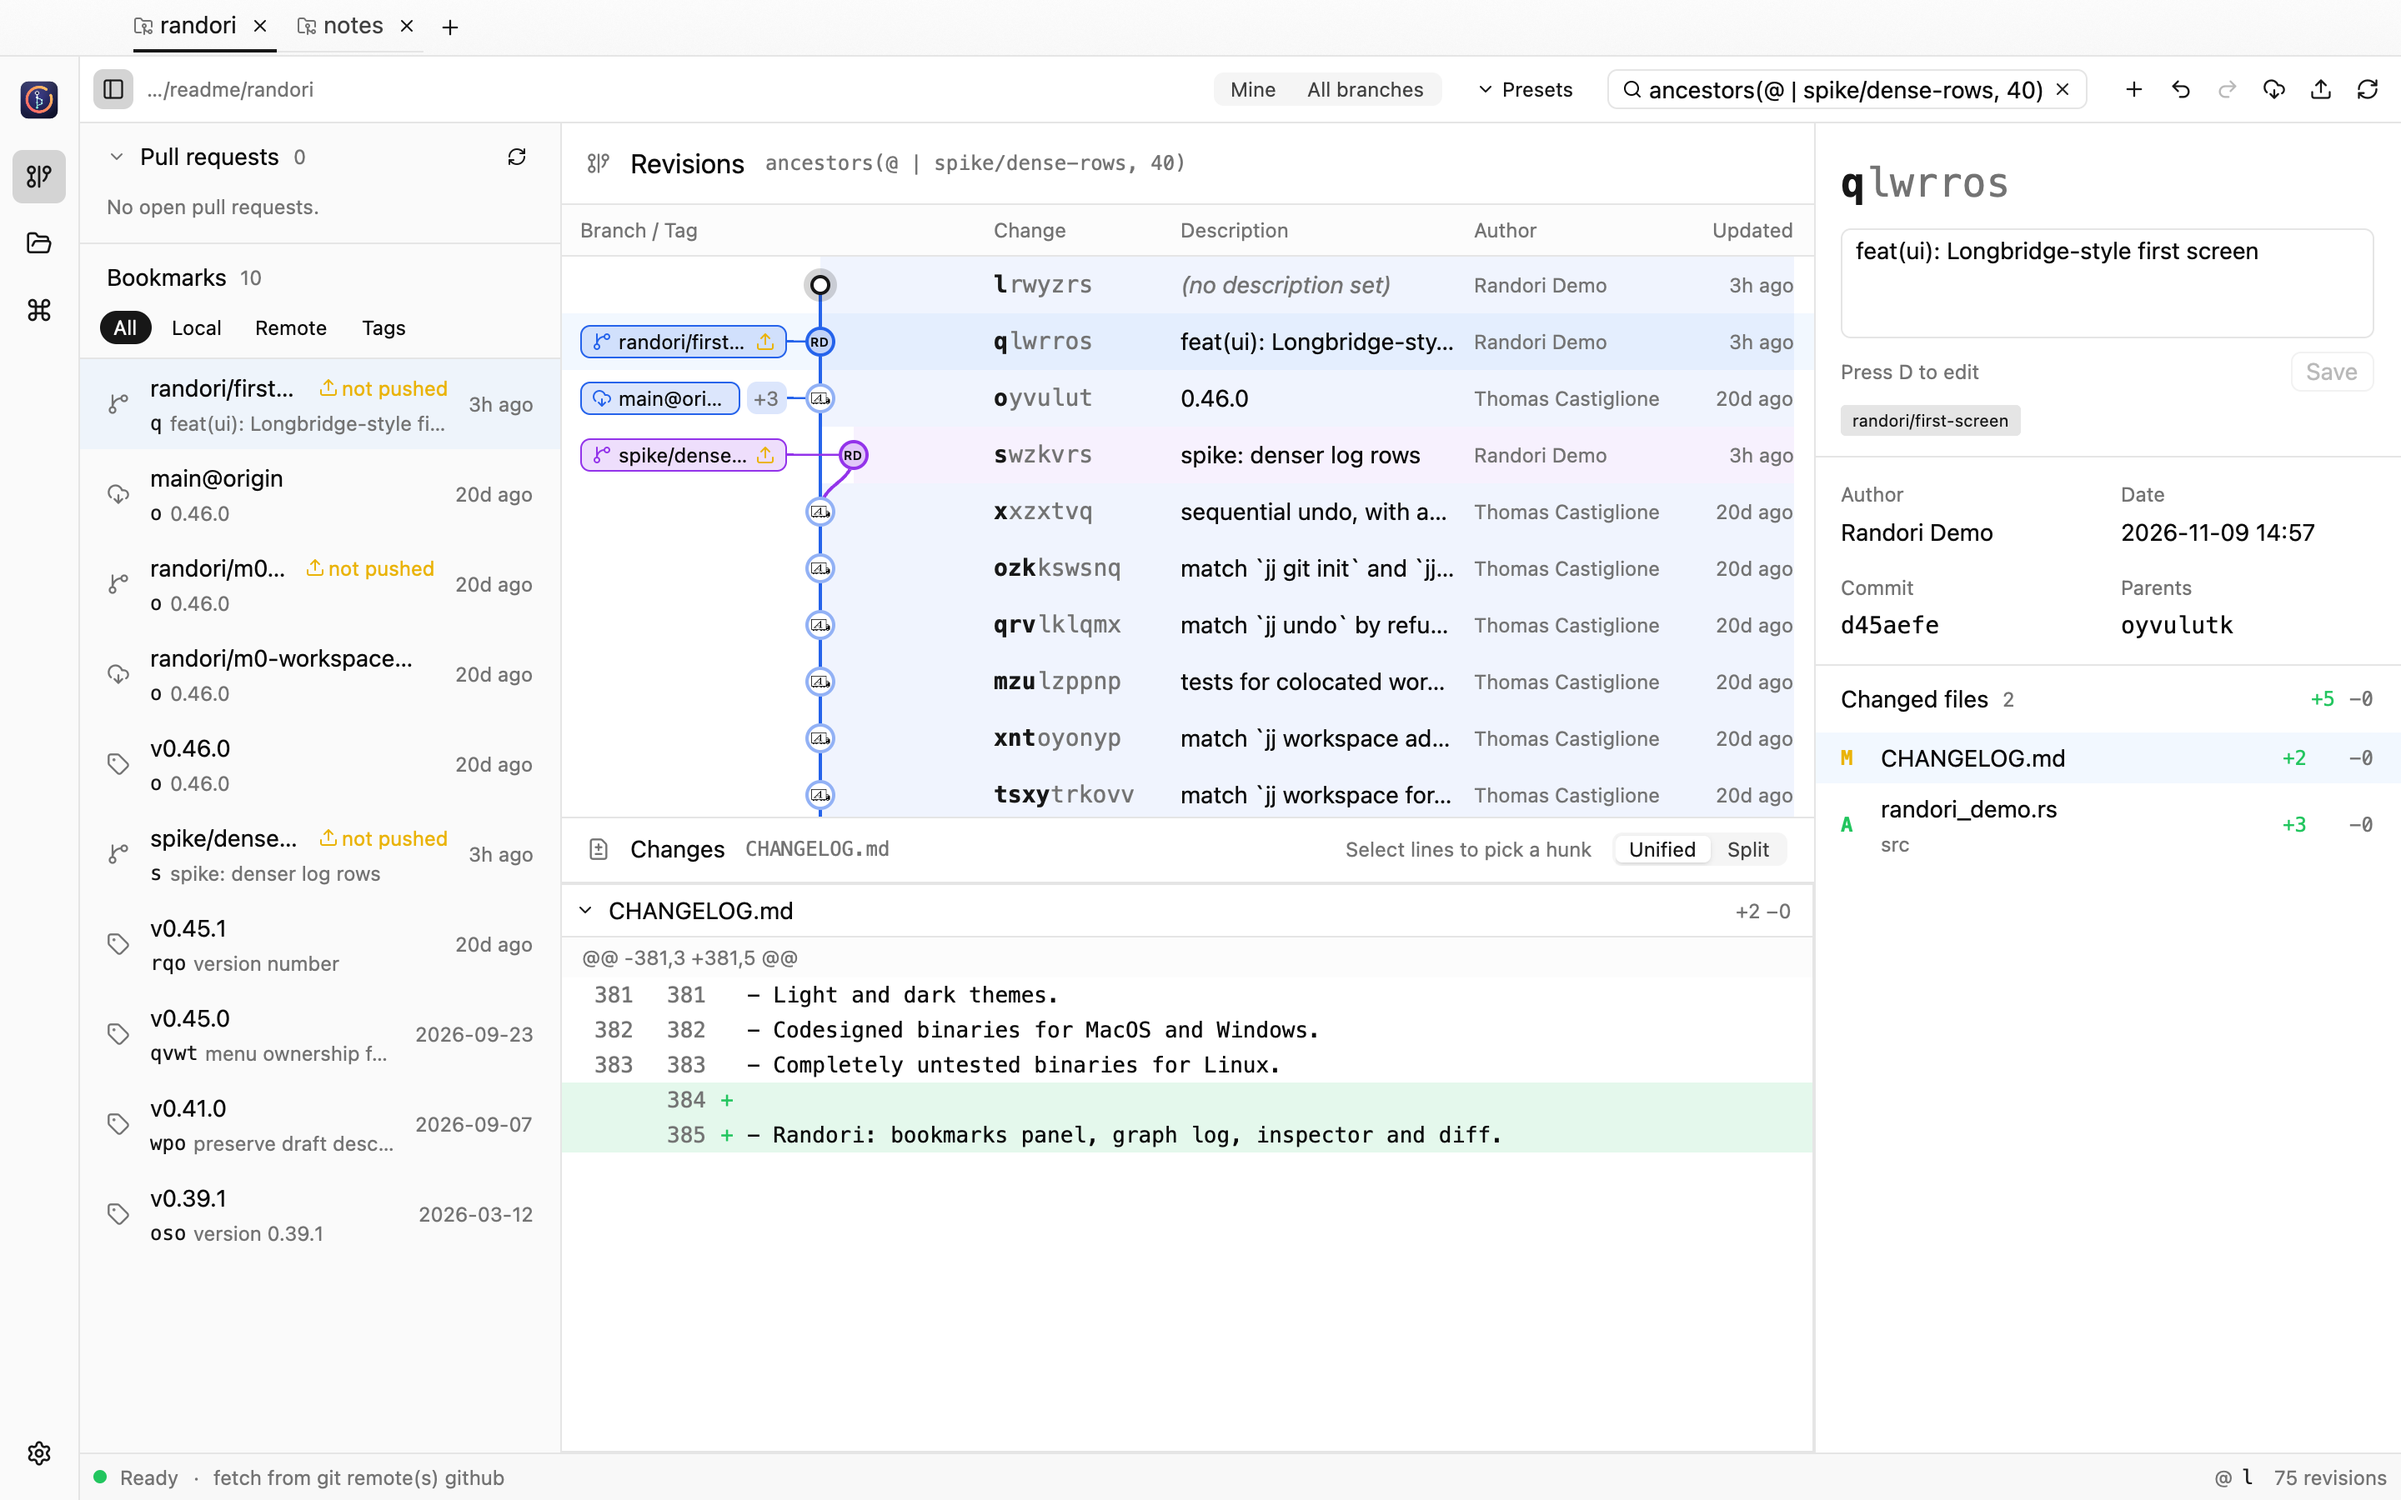
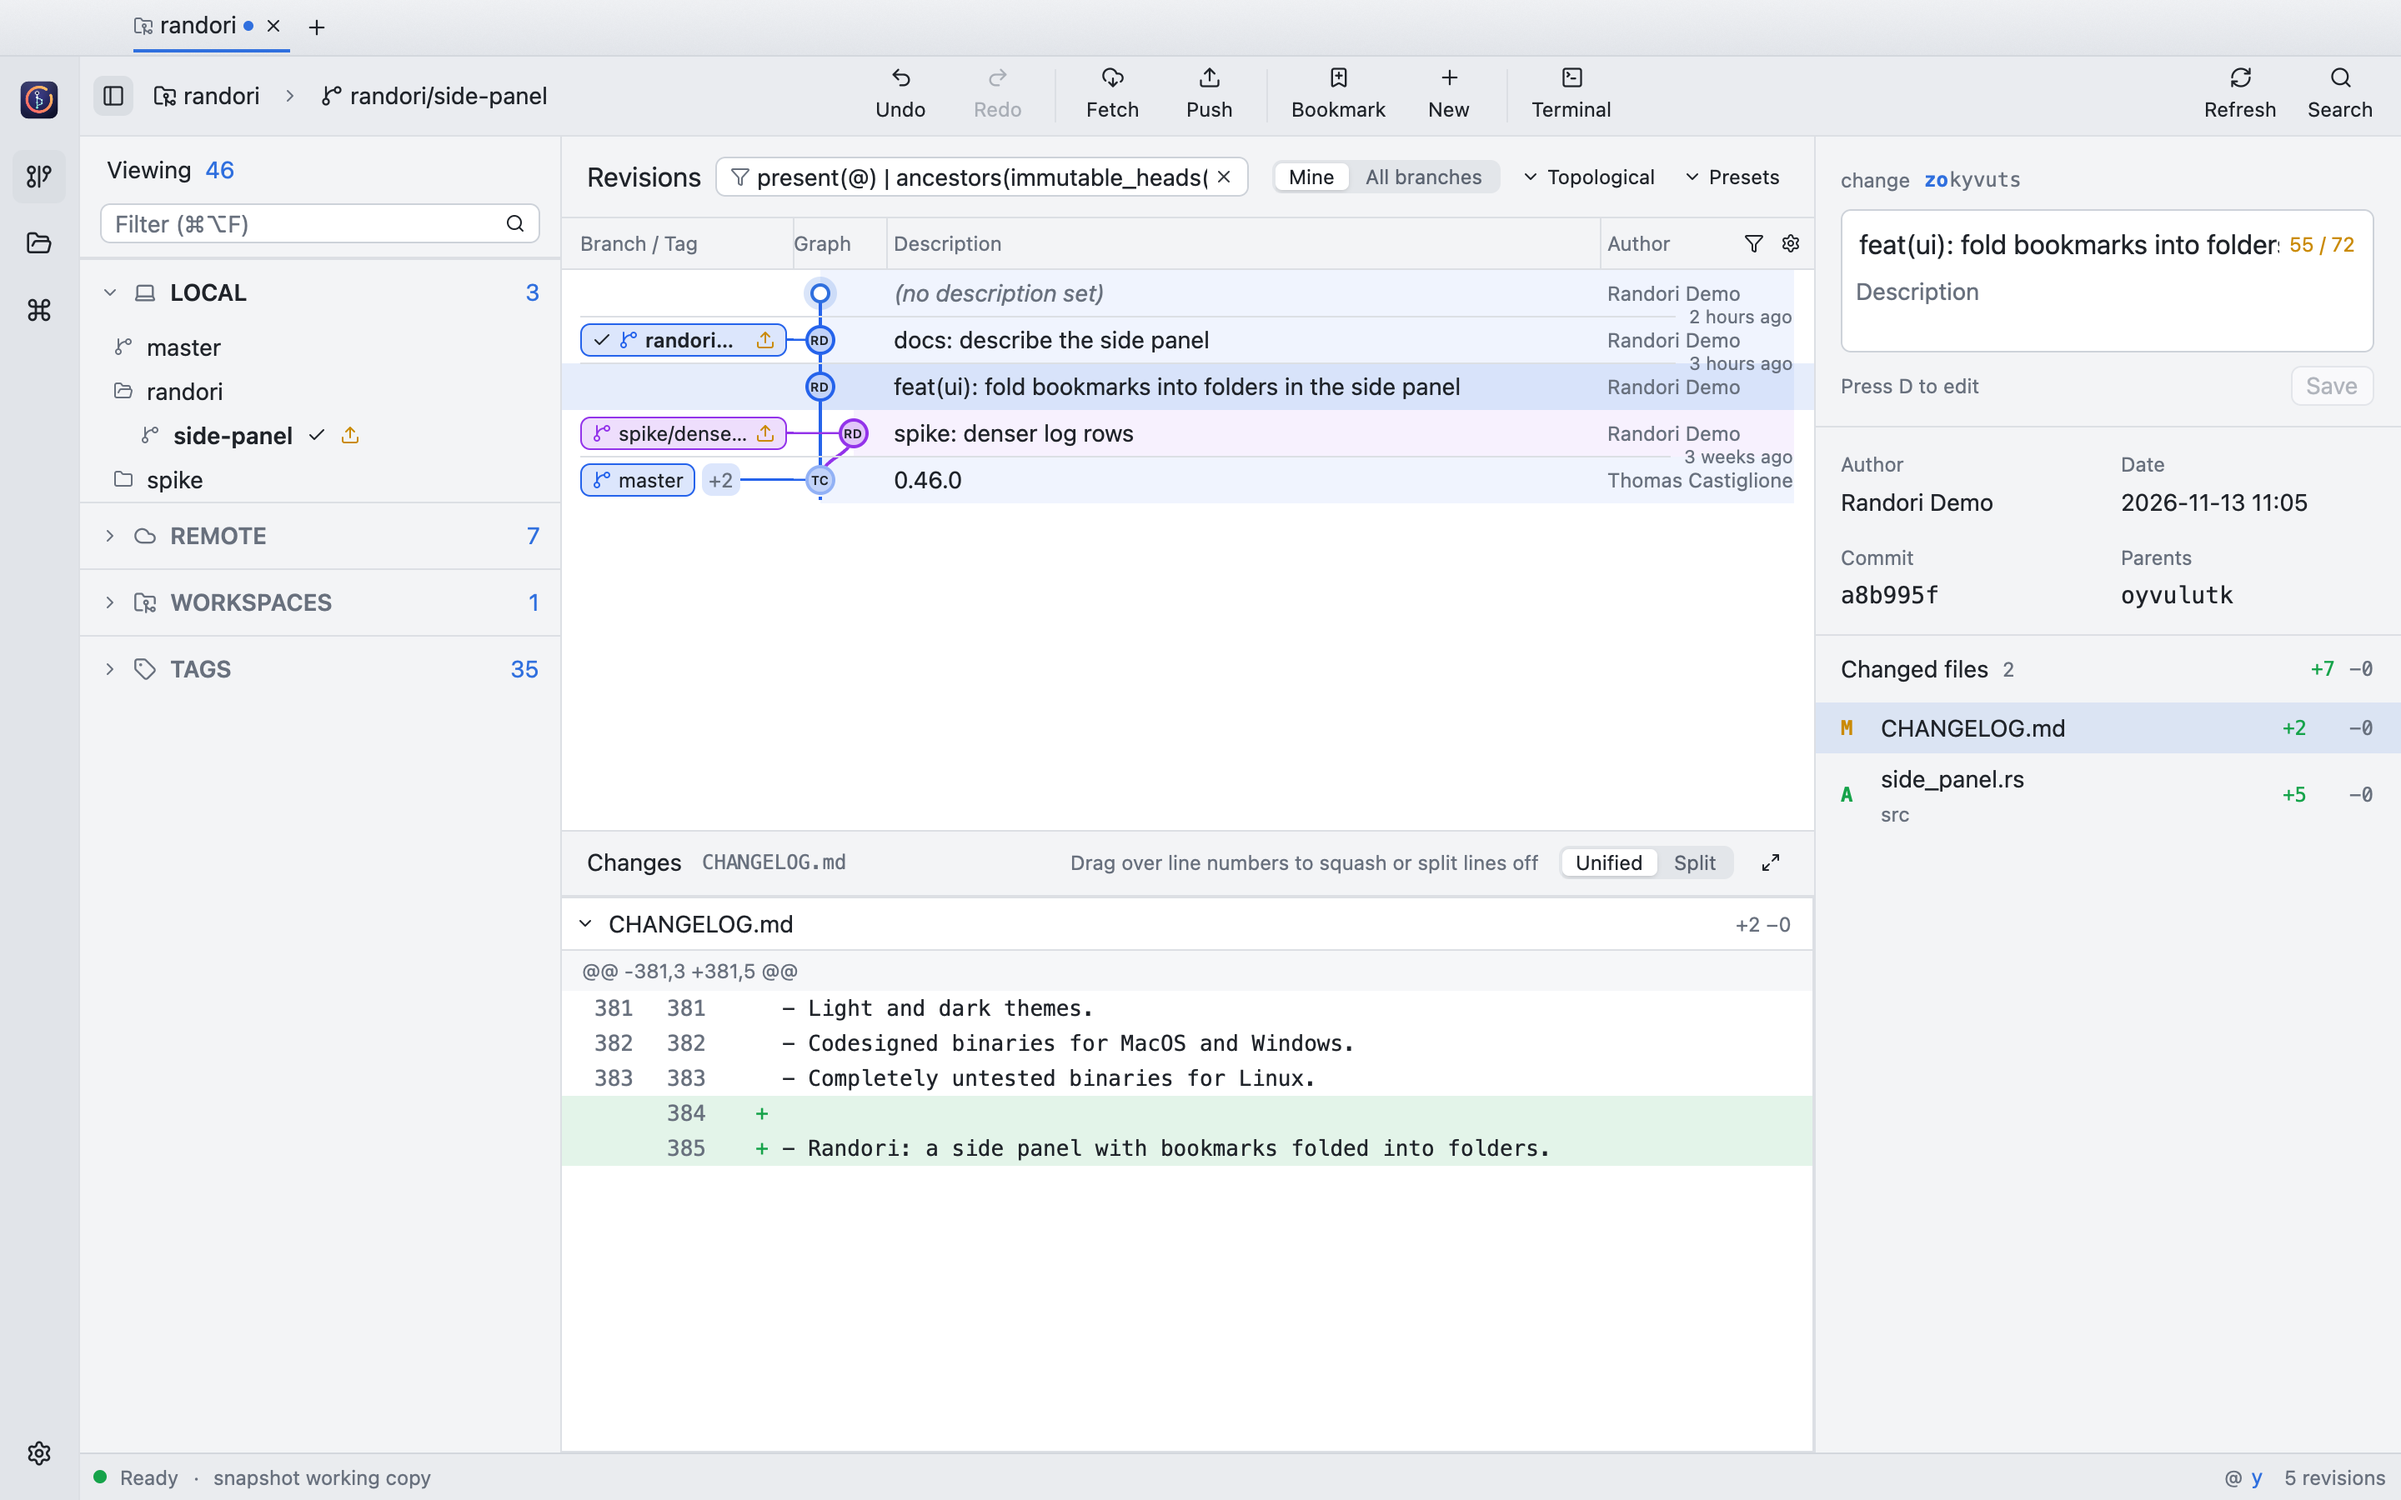
docs(randori): README 스크린샷을 지금 화면으로 다시 찍고 본문을 맞춘다
What:
- first-screen(다크 · 라이트), file-history, bookmark-dialog, command-palette
  를 다시 찍고 commit-box 를 더한다. 데모 저장소는 GG 복제본에 Randori Demo
  의 변경 넷, 원격은 GitHub 밖을 가리킨다(PR 목록이 비게)
- 본문: 스크린샷 만드는 방법, gpui-kit 패치 셋, 북마크 옮기기(side panel ·
  Move to… · --allow-backwards 없음), 좁은 창의 말줄임 · 둘째 줄,
  작업 사본의 나이 표시

Why:
- 이미지가 11-09 의 옛 화면(GitKraken식으로 바꾸기 전)이었다
- 본문 일부가 옛 이름(bookmarks panel)과 옛 패치 목록을 적고 있었다

AI-Use: yes
AI-Model: claude opus 5.5
AI-Contribution: 100%

diff --git a/README.md b/README.md
@@ -28,10 +28,10 @@ you move, split and recombine freely. That is how jj treats history.
 | Region | What it shows |
 | --- | --- |
 | Tabs | One tab per jj workspace, like Fork or GitKraken. `+` (or `⌘O`) opens more; the open tabs come back on the next launch |
-| Toolbar | Laid out as GitKraken's. At the left, the **workspace** and **bookmark** switchers (like GitKraken's repository and branch pickers) and a **conflicts** count; in the middle, **Undo**, **Redo**, **Fetch**, **Push**, **Bookmark**, **New** and **Terminal**, each icon over its name (jj has no stash: work in progress is a change already, so **New** stands where GitKraken has Stash and Pop); at the right, **Refresh** and **Search** (find a commit, below) |
+| Toolbar | Laid out as GitKraken's. At the left, the **workspace** and **bookmark** switchers (like GitKraken's repository and branch pickers) and a **conflicts** count; in the middle, **Undo**, **Redo**, **Fetch**, **Push**, **Bookmark**, **New** and **Terminal**, each icon over its name (jj has no stash: work in progress is a change already, so **New** stands where GitKraken has Stash and Pop); at the right, **Refresh** and **Search** (find a commit, below). In a narrow window a long bookmark name ends in an ellipsis rather than running under the commands; its tooltip has it whole |
 | Rail | Revisions, Open, the command palette (`⌘P`, as in GitKraken) and Settings (below) |
 | Side panel | As GitKraken's: a **filter** (`⌘⌥F`) over every section, then **Local**, **Remote** (by remote), **Workspaces** (jj's worktrees), **Pull requests** of the workspace's GitHub remote (below) and **Tags**, each folding under a header with its count. It lists every bookmark and tag of the repository, not only those the log has loaded, folded into folders at the `/` of their names (`release/2.0.0` under **release**; remote bookmarks under their remote), and a ✓ marks the bookmark you are on, whose folders open by themselves. Hover one for its full name and a **⋮** with its commands (the same as a right-click): check out, push, move, rename, track, copy its name, commit or change id, delete. Click one to select its revision (one the log does not show widens the revset to take it in), double-click to switch to it (`jj new` on it), drag it onto a revision to move it |
-| Revisions | Branch / tag, graph, description and author columns, GitKraken style (the change id column is off until you turn it on): drag a header's edge to resize a column (double-click it for the default width); the widths are remembered and the graph fits its lanes until you size it. The ⚙ at the header's right end shows or hides the optional columns and resets the widths; the funnel beside it filters by author, dimming the other revisions as GitKraken's does. Instead of a time on every row, a hairline and a small label on it ("3 hours ago", "2 weeks ago", "a month ago") mark where each age group starts; the inspector has the exact date. Narrow, the author column shows avatars only. Each branch keeps one colour from its tip down, and its rows are tinted in it. A revision is its author's round avatar (GitHub picture or initials); a dimmer ring marks immutable revisions, small dots are merges and the hollow ring is the working copy (`@`). Local bookmarks that are not pushed carry an upload mark. Right-click for revision commands; drag a revision onto another to rebase it there |
+| Revisions | Branch / tag, graph, description and author columns, GitKraken style (the change id column is off until you turn it on): drag a header's edge to resize a column (double-click it for the default width); the widths are remembered and the graph fits its lanes until you size it. The ⚙ at the header's right end shows or hides the optional columns and resets the widths; the funnel beside it filters by author, dimming the other revisions as GitKraken's does. Instead of a time on every row, a hairline and a small label on it ("3 hours ago", "2 weeks ago", "a month ago") mark where each age group starts; the inspector has the exact date. The working copy has none: its time is when it was last snapshotted, "just now" whenever the log is read. Narrow, the author column shows avatars only. Each branch keeps one colour from its tip down, and its rows are tinted in it. A revision is its author's round avatar (GitHub picture or initials); a dimmer ring marks immutable revisions, small dots are merges and the hollow ring is the working copy (`@`). Local bookmarks that are not pushed carry an upload mark. Right-click for revision commands; drag a revision onto another to rebase it there |
 | Changes | Diff of the selected file, unified or split, with line numbers and word-level highlights. Split puts the parent's version on the left and wraps long lines so both sides stay in view; drag the boundary between them to resize the sides, double-click it to even them. The palette and the View menu do the same from the keyboard; used on a unified diff, they switch it (and the layout diffs open in) to split. Double-click a file (or `⇧⌘D`) for its full view |
 | Inspector | The selected revision: change id, an editable description in one box of two fields, a one-line summary and the description under it, as GitKraken's (immutable history stays read-only; jj keeps them as one message, with a blank line between), author, date, commit, parents and the changed files. Right-click a file to squash it into the parent, discard it, or open it in your diff or merge tool; drag it onto a revision to move it there |
 | Terminal | Your shell at the bottom of the tab (below) |
@@ -79,7 +79,9 @@ revset you type selects neither.
 
 The revset field over the revisions (the funnel, `/` or `⌘L`) chooses which
 revisions the log shows; it is not a search. A revset jj cannot use leaves the
-log as it was and says why under the field.
+log as it was and says why under the field. Where the revisions are narrow,
+**Mine** / **All branches**, the order and **Presets** move to a second line
+under it.
 
 **Search** in the toolbar (`⌘F`) finds a commit the way GitKraken's does: a
 bar over the revisions that matches its text against the loaded revisions'
@@ -109,7 +111,7 @@ operation log, and git credentials are asked for when a remote needs them.
 | Abandon | `⌫` / `Delete`, confirmed in a dialog |
 | Duplicate, back out | Context menu |
 | Rebase | Drag a revision onto its new parent, or press `R`, choose the parent with `↑` `↓` and press Enter |
-| Move a bookmark | Drag it from the bookmarks panel onto a revision, or right-click → **Move to…** |
+| Move a bookmark | Drag it from the side panel onto a revision, or right-click it there → **Move to…**, choose the revision with `↑` `↓` and press Enter. Unlike `jj bookmark move`, a move backwards or sideways needs no `--allow-backwards`; Undo takes it back |
 | Squash a file into the parent | Right-click it in the inspector |
 | Move a file to any revision | Drag it from the inspector onto the revision, or right-click → **Move to revision…** |
 | Discard a file's changes | Right-click it in the inspector, confirmed in a dialog |
@@ -144,6 +146,8 @@ nothing to the repository, and the commit is one jj operation, which Undo
 takes back. The files on disk never change. A line edited after it was
 included is left out again (the commit box says so), so a commit never takes
 lines other than those you ticked.
+
+![Committing two of three files](doc/randori/commit-box.png)
 
 ### Full file view
 
@@ -382,17 +386,21 @@ here** (colocated with git when the folder already is one) and **Try again**
 | `--screenshot <png>` | Render the first screen offscreen and exit; needs `--features screenshot` |
 | `--keys <k1,k2,…>` | With `--screenshot`: press these keys first through the real key bindings, e.g. `down,j,end`; `action:randori::SquashFile` runs an action the way a menu item does; `click:X;Y`, `cmdclick:X;Y` (with ⌘), `rclick:X;Y`, `dblclick:X;Y` and `drag:X1;Y1;X2;Y2` use the mouse at window points, or at `@name`, the middle of an element the app marks (e.g. `click:@summary`, `click:@include:a.txt`), `move:X;Y` hovers, `scroll:X;Y;DY` turns the wheel, and `bench:X;Y;DY;N` turns it N times and prints how long each frame took to draw (median and slowest) |
 
-The screenshots above were produced with:
+The screenshots above were produced with, for example:
 
 ```sh
 cargo run -p randori --features screenshot -- \
-  --revset 'ancestors(@ | spike/dense-rows, 40)' --select-row 1 \
+  --size 1440x900 --select-row 2 --keys 'move:900;600' \
   --screenshot doc/randori/first-screen.png /path/to/workspace
 ```
 
-The sample workspaces are a clone of this repository with two extra changes and
-a small notes repository, made under a placeholder identity
-(`JJ_USER="Randori Demo"`). Screenshot runs never touch your saved tabs.
+The sample workspace is a clone of GG with three extra changes on two
+bookmarks and a working copy that changes three files, made under a
+placeholder identity (`JJ_USER="Randori Demo"`, also `user.name` in a jj
+config of its own through `XDG_CONFIG_HOME`). Its `origin` points away from
+GitHub, so the pull requests section stays empty. The `move:` step puts the
+pointer over empty space, where it hovers nothing, and gives the first frame a
+redraw. Screenshot runs never touch your saved tabs.
 
 `script/ui-flow-test.sh` drives the commit flow through the app the same way
 (a summary typed and `⌘↩` with nothing included; a summary, Enter, a
@@ -456,7 +464,9 @@ src/messages     request and response types shared with the UI
   Svelte frontend are not part of Randori; GG's documentation is kept in
   [`doc/gg/`](doc/gg/).
 - gpui-kit comes from Randori's fork, `jeonsu0609/gpui-kit`: the 0.9.0
-  release plus a ratio for the two sides of a split diff, through
+  release plus three changes (a ratio for the two sides of a split diff, the
+  file header kept in view when a diff switches modes, and
+  `keep_text_selection` for buttons that act on a text selection), through
   `[patch.crates-io]`. What changed and how to update it:
   [`doc/randori/gpui-kit-patch.md`](doc/randori/gpui-kit-patch.md).
 
